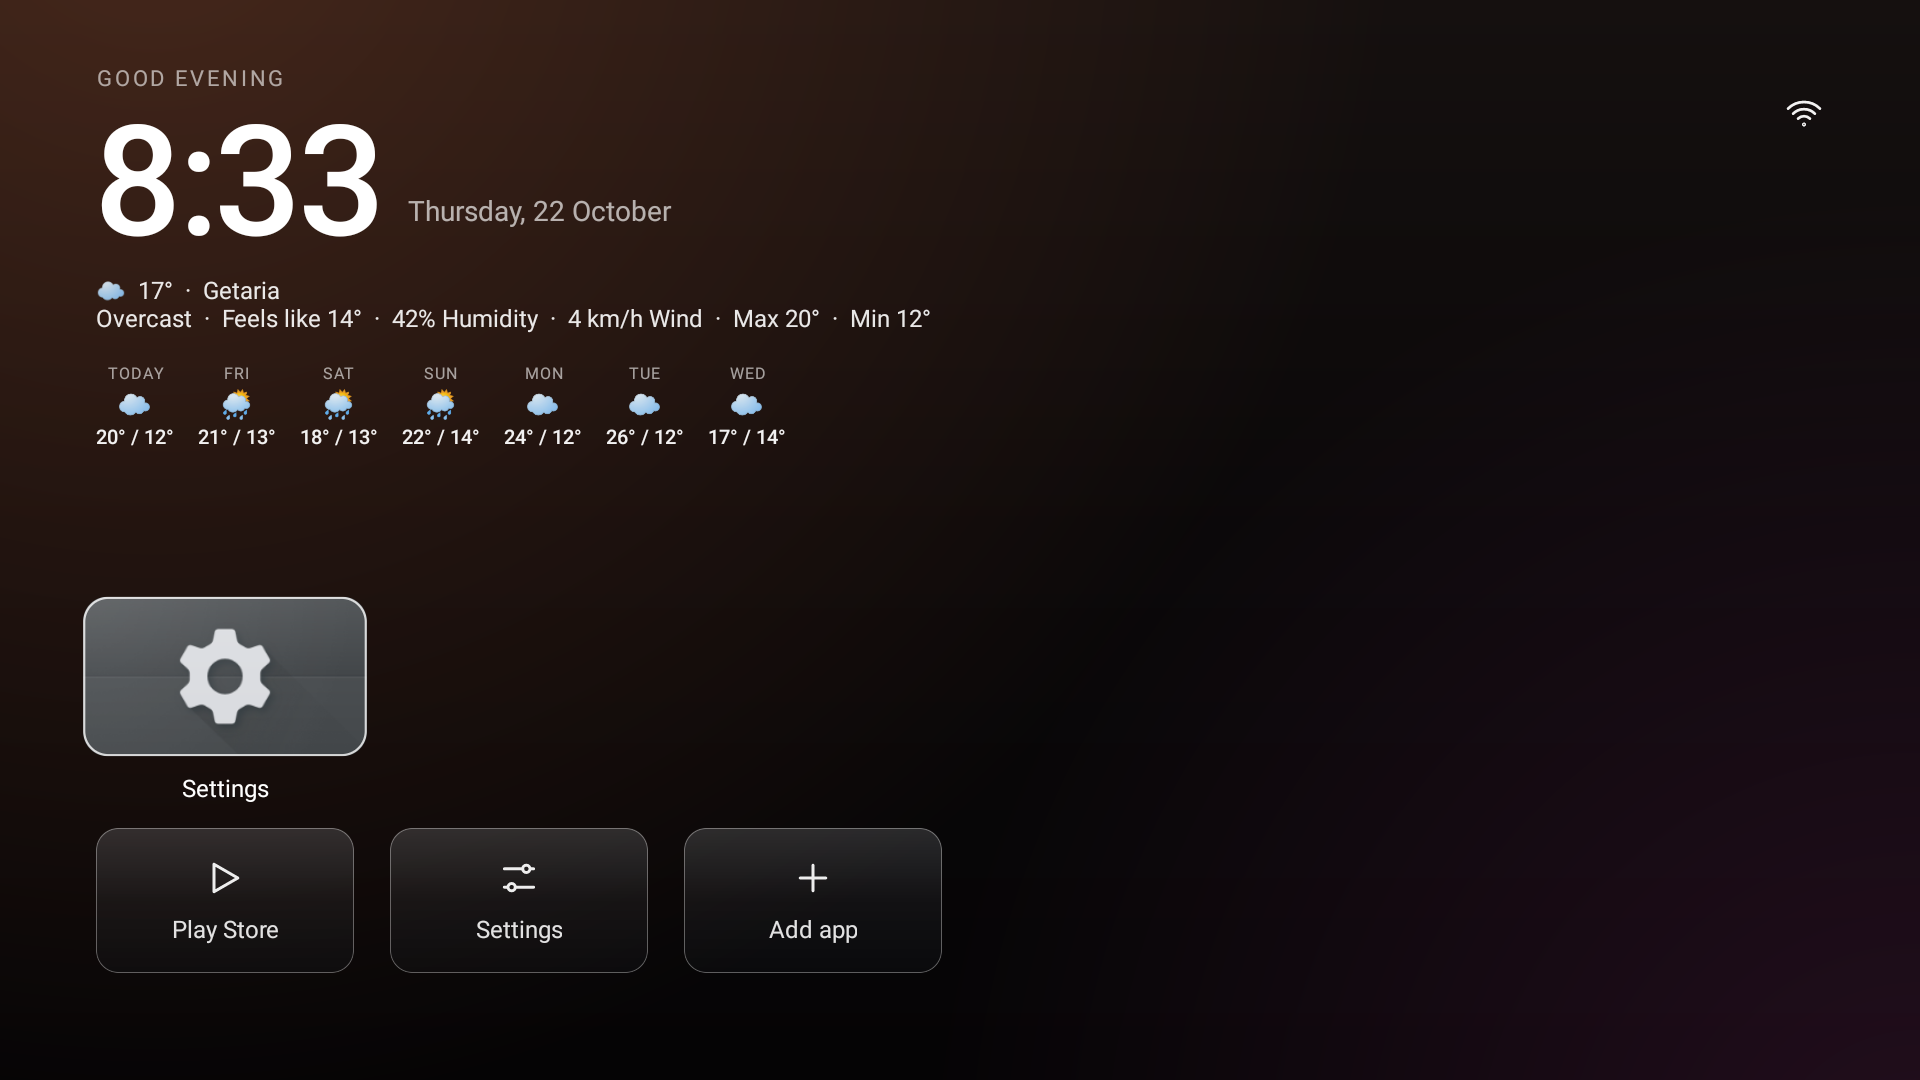
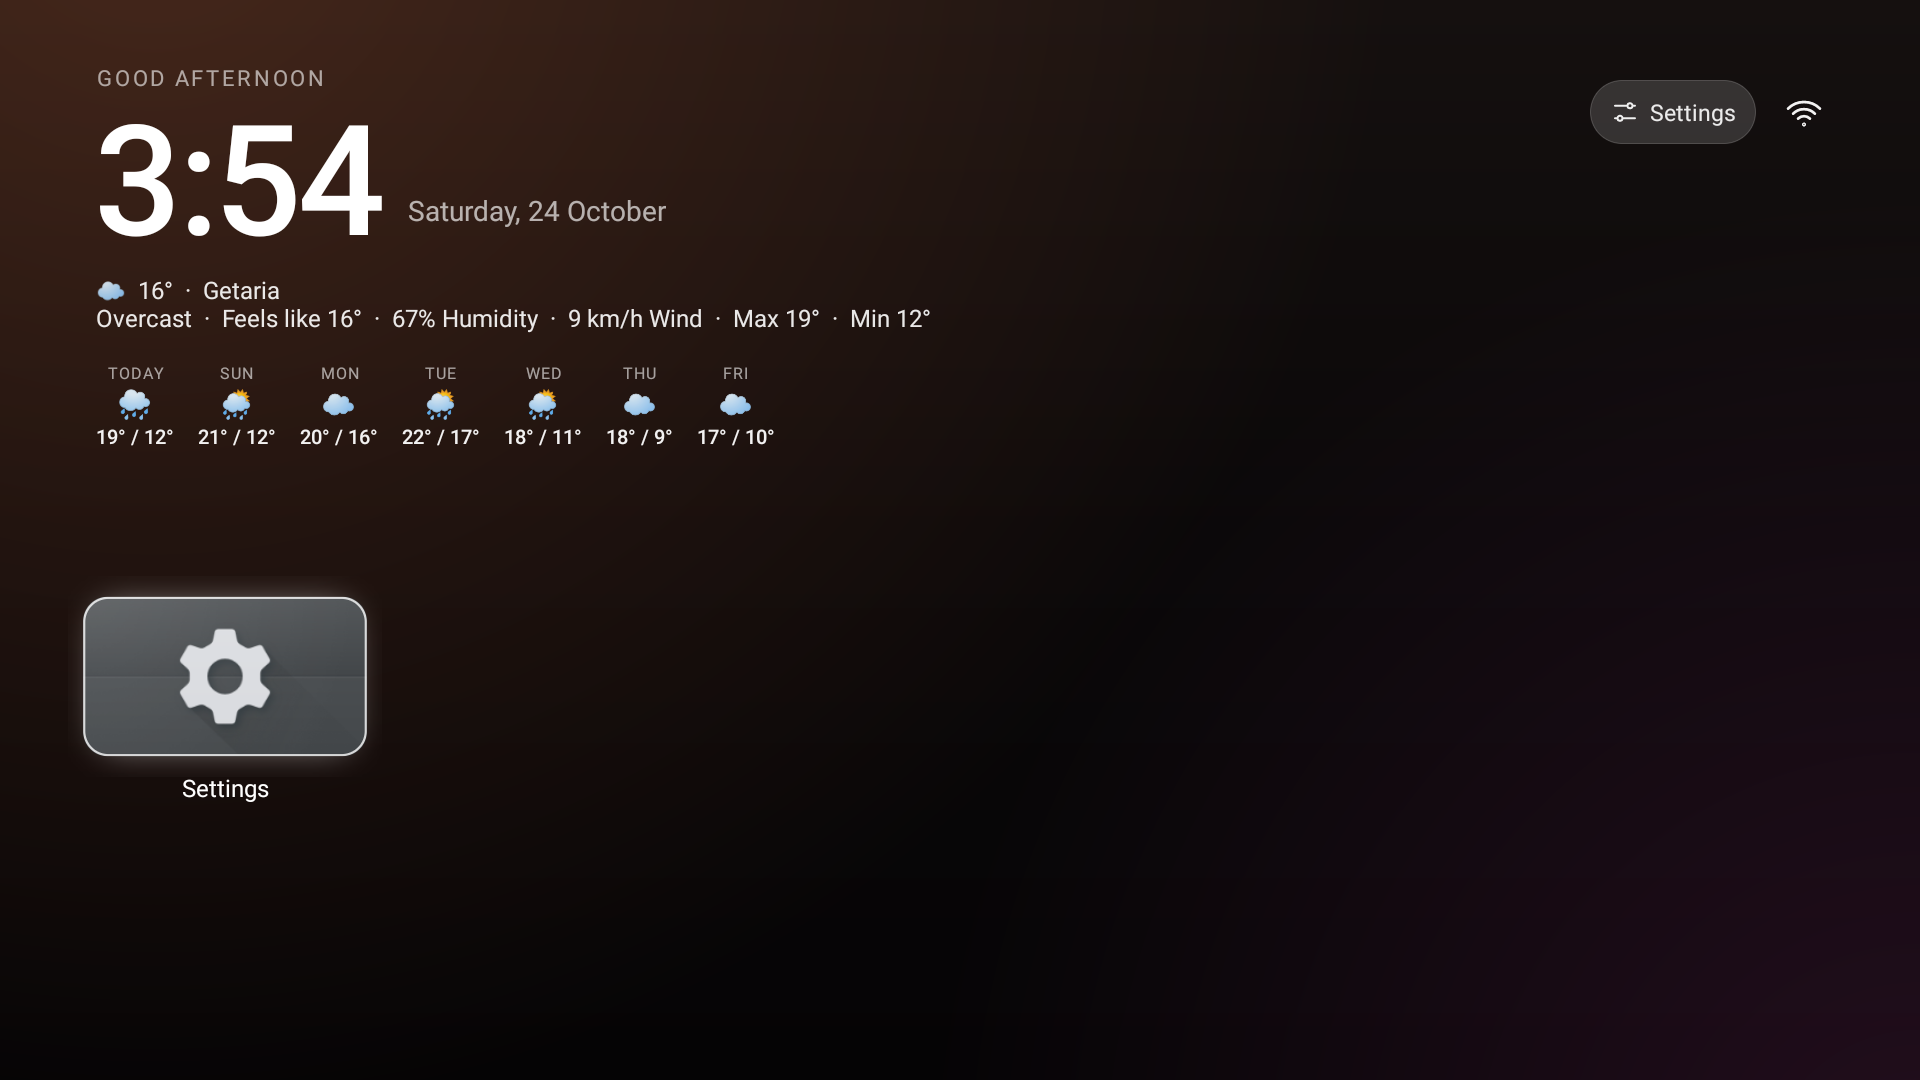
1.6.0: pills for Settings and the HDMI inputs, blurred focus halo
The utility row goes away: Settings and the HDMI inputs are named pills on the clock's line and Add app and Google Play join the Settings menu, which hands a row back to the apps. The focused item now gets a blurred shadow of its own shape. The smoke test walks Up to the Settings pill and opens its menu, and the emulator screenshots are refreshed.

diff --git a/README.es.md b/README.es.md
@@ -17,10 +17,10 @@ TV Detox AMG es un launcher independiente para Android TV. Nació del código de
 
 ## Novedades
 
-- Superficies y estados de foco con efecto glass en las tarjetas de aplicaciones, sistema y HDMI. Se mantienen los controles del mando y las acciones sencillas del launcher.
+- Superficies y estados de foco con efecto glass en las tarjetas de aplicaciones, sistema y HDMI. El mosaico, icono o píldora con el foco lleva una sombra difuminada, para localizar la selección de un vistazo.
 - Reloj grande, fecha y saludo localizados, además de una línea del tiempo de Open-Meteo. En Ajustes, Idioma cambia las etiquetas entre español e inglés; si no eliges, siguen el idioma del televisor. Tiempo tiene cuatro modos: Pequeño muestra el icono y la temperatura, Compacto añade la ciudad, Grande añade el estado del cielo, la sensación térmica, la humedad y el viento, y Extra grande añade la máxima y mínima de hoy y una fila de siete días con el cielo, la máxima y la mínima de cada día. Elegir ciudad busca una ciudad y la guarda. La búsqueda queda en la parte alta de la pantalla, así el teclado no tapa Buscar, Cancelar ni los resultados. Hasta que elijas una, la línea muestra Getaria.
 - Cuando Android detecta contenido multimedia activo aparece una pequeña tarjeta de reproducción. Al seleccionarla, vuelve al reproductor. Si el instalador no pudo conceder el acceso, Android puede pedir que se habilite el acceso a notificaciones.
-- El estado de red sigue visible arriba a la derecha. Las aplicaciones, accesos rápidos del sistema y entradas HDMI se manejan con el mando del televisor.
+- La línea del reloj reúne el resto, de derecha a izquierda: el icono de red, la píldora de **Ajustes** (Fondo de pantalla, Tiempo, Idioma, Añadir app, Google Play y los ajustes del televisor) y, cuando el televisor tiene entradas, la píldora de **entradas HDMI**, que toma el nombre de la entrada elegida en su menú. No hay fila de utilidades bajo las aplicaciones, así que esa fila es para aplicaciones.
 - Fondos ligeros con degradados de color, sin necesidad de imágenes fotográficas.
 
 ## Capturas

diff --git a/README.md b/README.md
@@ -17,10 +17,10 @@ TV Detox AMG is an independent Android TV launcher. It started from the [TV Deto
 
 ## What’s new
 
-- Glass-style surfaces and focus states across app, system and HDMI cards. The remote controls, app actions and HDMI inputs remain part of the original simple launcher workflow.
+- Glass-style surfaces and focus states across app, system and HDMI cards. The focused tile, icon or pill gets a soft blurred shadow, so the selection is easy to pick out.
 - A large clock, localized date and greeting, plus a weather line from Open-Meteo. Settings → Language switches the home screen labels between English and Spanish; otherwise they follow the TV. Weather offers four modes: Small shows the icon and temperature, Compact adds the city, Large adds the conditions, feels-like temperature, humidity and wind, and Extra large adds today's high and low plus a seven-day strip with each day's sky, high and low. Choose location searches for a city and saves it. The search sits at the top of the screen, so the keyboard does not cover Search, Cancel or the results. Until you pick one, the line shows Getaria.
 - A compact now-playing pill appears when Android reports active media. Selecting it returns to the player. Android may ask you to enable notification access if the installer could not grant it automatically.
-- Network status remains at the top right. App tiles, system shortcuts and HDMI inputs are still navigated with the TV remote.
+- The clock's line carries everything else, right to left: the network icon, the **Settings** pill (Wallpaper, Weather, Language, Add app, Google Play and the TV's own settings) and, when the TV has any, the **HDMI inputs** pill, which takes the name of the entry picked in its menu. There is no utility row under the apps, so a row of tiles goes to apps instead.
 - Lightweight, color-gradient wallpapers; no photographic background assets are required.
 
 ## Screenshots

diff --git a/CHANGELOG.es.md b/CHANGELOG.es.md
@@ -4,11 +4,20 @@ Cambios destacados de TV Detox AMG. El proyecto es independiente desde el 22 de
 octubre de 2026: las versiones hasta la 1.5.1 proceden del código de TV Detox del
 que partió, y a partir de ahora este repositorio fija sus propias versiones.
 
-## Sin publicar
+## 1.6.0 — 24 de octubre de 2026
 
-- `install.sh` ahora descarga el APK de respaldo de la última release de este
-  repositorio en vez de la del TV Detox original, así que instalar sin compilar ya no
-  trae la aplicación del proyecto upstream.
+- La fila de utilidades bajo las aplicaciones desaparece. Ajustes pasa a ser una píldora en la línea
+  del reloj, a la izquierda del icono de red, y las entradas HDMI del televisor son otra píldora a su
+  lado. La píldora de entradas toma el nombre de la entrada elegida en su menú (`HDMI 1`, `Dormitorio`…),
+  así que la selección y la entrada ocupan una línea de texto en vez de una fila de mosaicos. Eso
+  libera una fila entera de espacio para las aplicaciones (`MainActivity`).
+- El menú de la píldora de Ajustes incluye ahora **Añadir app** y **Google Play** junto a Fondo,
+  Tiempo e Idioma, así que instalar más aplicaciones ya no necesita mosaicos propios.
+- El mosaico, icono o píldora con el foco recibe una sombra difuminada con su propia forma, para
+  localizar la selección de un vistazo sobre el fondo (`MainActivity`).
+- `install.sh` ahora descarga el APK de respaldo de la última release de este repositorio en vez de
+  la del TV Detox original, así que instalar sin compilar ya no trae la aplicación del proyecto
+  upstream.
 
 ## 1.5.2 — 22 de octubre de 2026
 

diff --git a/CHANGELOG.md b/CHANGELOG.md
@@ -4,11 +4,19 @@ Notable changes to TV Detox AMG. The project is independent as of 22 October
 2026: versions up to 1.5.1 come from the TV Detox codebase it started from, and
 from now on this repository sets its own version numbers.
 
-## Unreleased
+## 1.6.0 — 24 October 2026
 
-- `install.sh` now downloads the fallback APK from this repository's latest release
-  instead of the upstream TV Detox one, so installing without a local build no longer
-  pulls the original project's app.
+- The utility row under the apps is gone. Settings is now a pill on the clock's line, left of the
+  network icon, and the TV's HDMI inputs are a second pill beside it. The input pill takes the name
+  of the entry picked in its menu (`HDMI 1`, `Bedroom`…), so both the pick and the way in are one
+  line of text instead of a row of tiles. That frees a whole row of space for apps (`MainActivity`).
+- The Settings pill's menu now includes **Add app** and **Google Play** alongside Wallpaper, Weather
+  and Language, so installing more apps no longer needs its own tiles.
+- The focused tile, icon or pill gets a soft blurred shadow of its own shape, so the selection is
+  easy to pick out against the wallpaper (`MainActivity`).
+- `install.sh` now downloads the fallback APK from this repository's latest release instead of the
+  upstream TV Detox one, so installing without a local build no longer pulls the original project's
+  app.
 
 ## 1.5.2 — 22 October 2026
 
